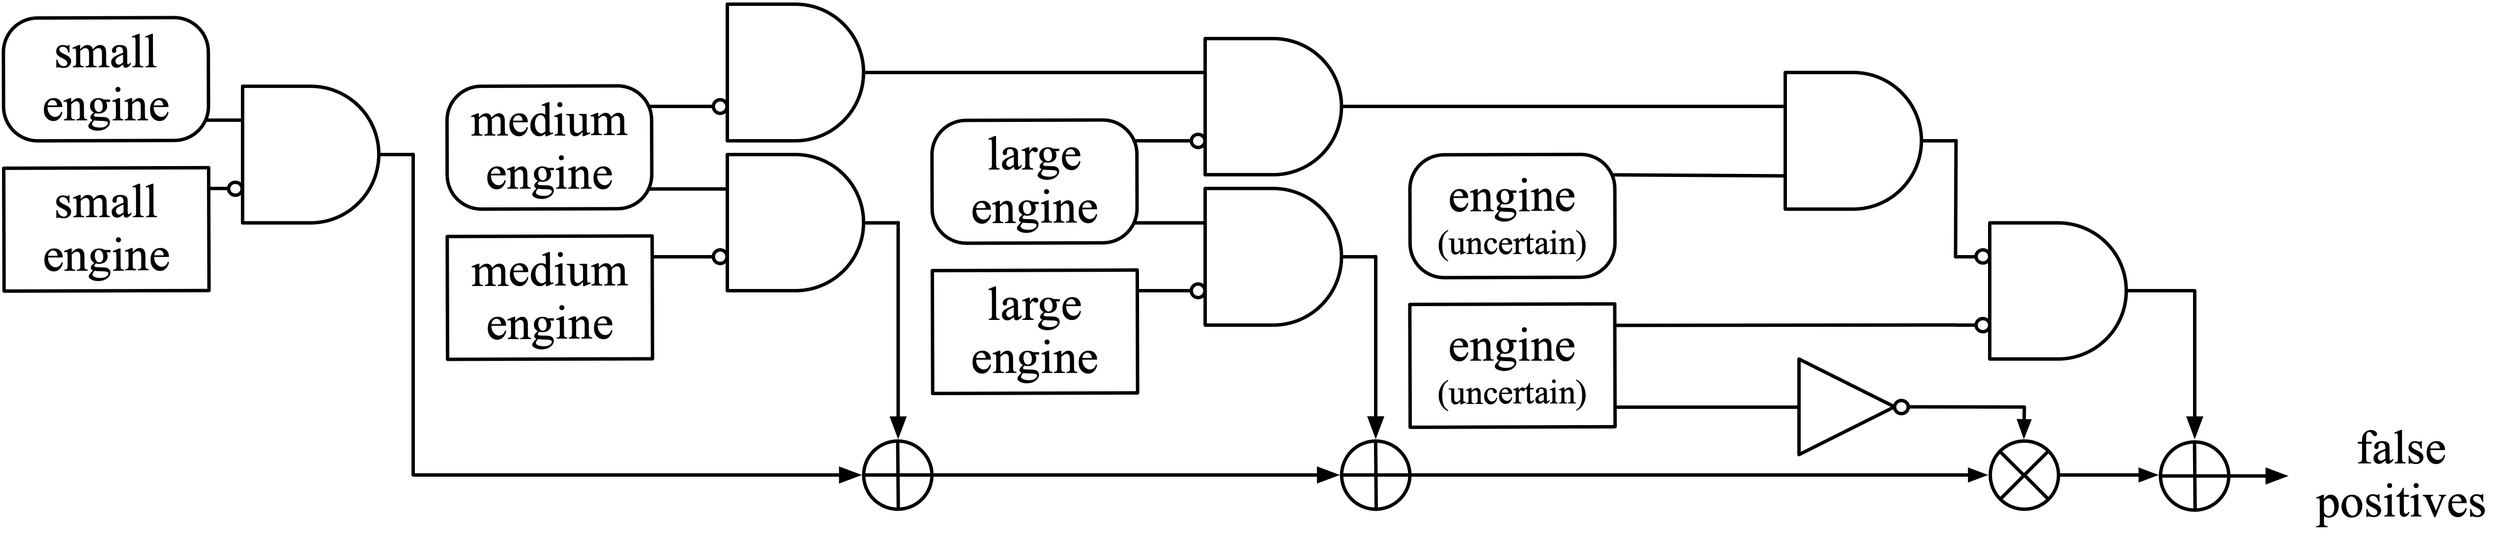
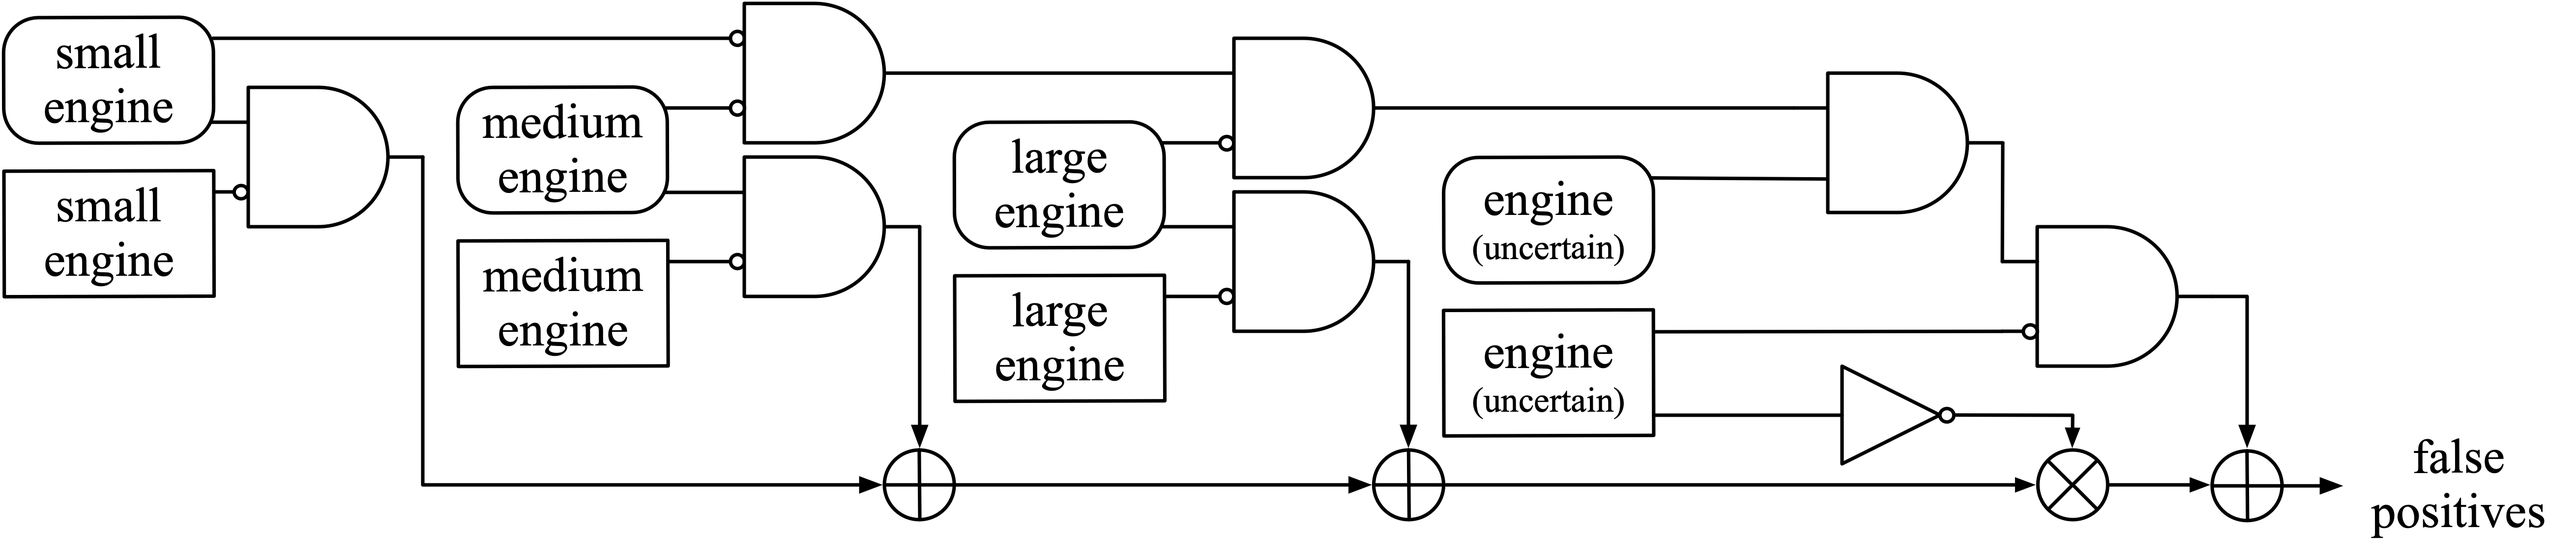
bugfix is_FP_incomplete

diff --git a/urban-sound-tagging-baseline/metrics.py b/urban-sound-tagging-baseline/metrics.py
@@ -152,9 +152,11 @@ def confusion_matrix_fine(
     # if and only if the following two conditions are met:
     # (i)   the incomplete fine tag is absent in the ground truth
     # (ii)  the prediction of sample n contains the incomplete fine tag
+    # (iii) the prediction of sample n does not contain any complete fine tag
     # The result is a (N,) vector.
     is_FP_incomplete = np.logical_and(
-        np.logical_not(is_true_incomplete), is_pred_incomplete)
+        np.logical_not(is_true_incomplete), is_pred_incomplete,
+        y_pred_coarsened_without_incomplete)
 
     # Compute false negatives for samples with incomplete ground truth.
     # For each sample n, is_FN_incomplete is equal to 1
